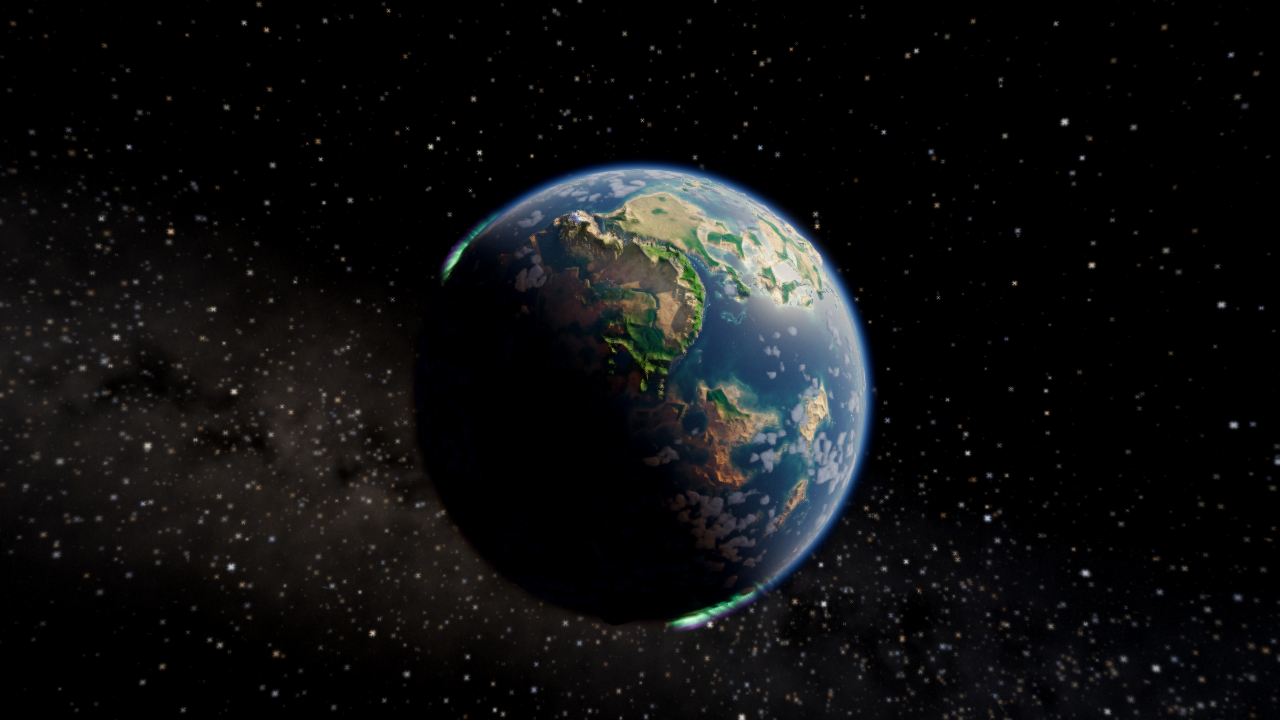
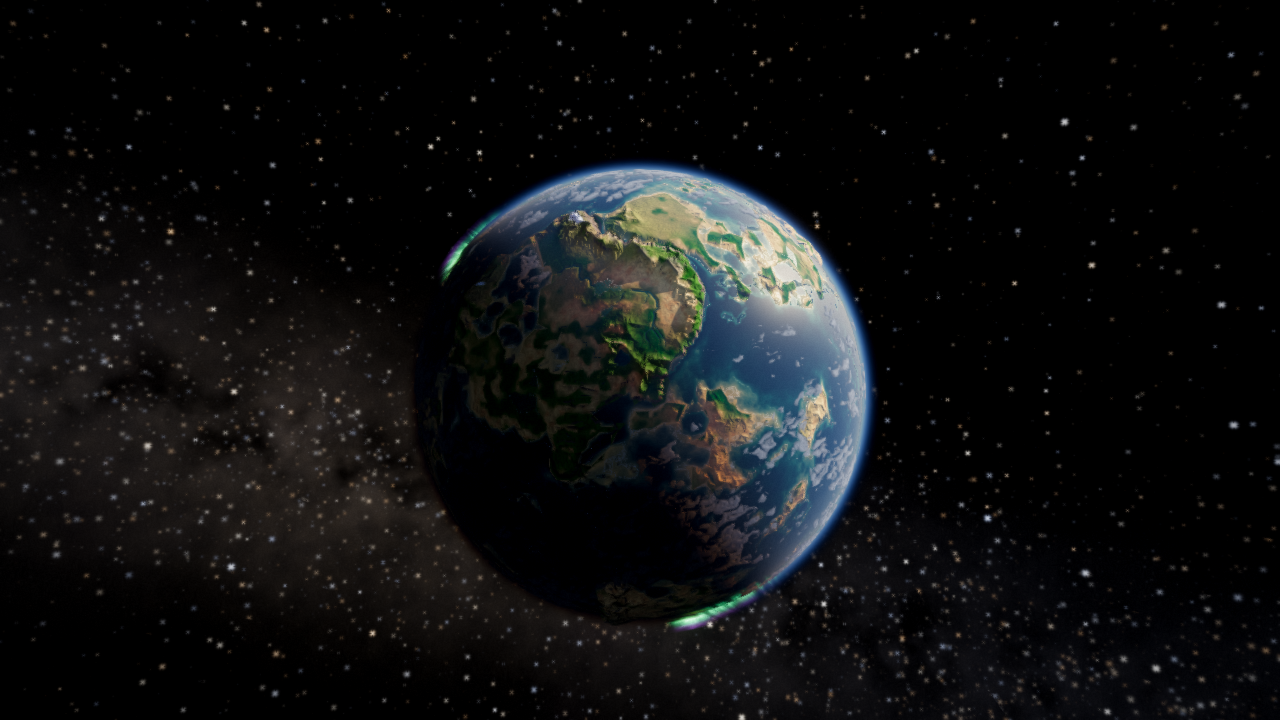
Fix instanced renderers drawing only their initial capacity; village clearings
three.js caches an instanced geometry's drawable count once, so growing
instance buffers in place kept drawing only the first 128-512 instances:
most trees, and crowds of animals and people beyond the first allocation,
never appeared. Growth now resets the geometry's GPU state.

- Vegetation: nearest-first ordering, cleared ground in settlements,
  building plots and fields; no trees in lakes
- Lakes: basins stepping down a valley are separate lakes; edge-exact
  lake quads with a shore rim (no double-blended checkerboard)
- Rainbows only for observers inside the rain; streakier whitecaps
- Mid-scale noise breaks the cloud cell lattice
- Chronicle merges recurring weather into one sentence per year
- Night viewpoint centres on settlements; volcano shot lit, plume frames
- README

Claude-Session: https://claude.ai/code/session_01P1K7jeGpkvrVy88twc6oDA

diff --git a/src/render/vegetation.ts b/src/render/vegetation.ts
@@ -18,6 +18,8 @@ import { hash4 } from '../core/rng';
 import { groundHeight } from './groundHeight';
 import type { PlanetData } from './planet/planetData';
 import { DEPTH_FS, type SharedUniforms } from './planet/terrain';
+import type { CivData } from '../worker/protocol';
+import { BType, BUILDINGS } from '../sim/civ/defs';
 
 export const VEG_TYPES = ['broadleaf', 'conifer', 'palm', 'cactus', 'bush', 'snag', 'rock', 'reeds', 'birch'] as const;
 export type VegType = (typeof VEG_TYPES)[number];
@@ -263,7 +265,16 @@ export class Vegetation {
     while (cap < n) cap *= 2;
     const arr = new Float32Array(cap * STRIDE);
     const buf = new THREE.InstancedInterleavedBuffer(arr, STRIDE, 1).setUsage(THREE.DynamicDrawUsage);
-    const geo = this.geos[i];
+    // A fresh geometry: three.js caches the drawable instance count per
+    // geometry, so growing the buffers in place would keep drawing only the
+    // old capacity.
+    const old = this.geos[i];
+    const geo = new THREE.InstancedBufferGeometry();
+    geo.index = old.index;
+    for (const name of ['position', 'normal', 'color', 'aSway']) geo.setAttribute(name, old.getAttribute(name));
+    this.meshes[i].geometry = geo;
+    old.dispose();
+    this.geos[i] = geo;
     geo.setAttribute('aDir', new THREE.InterleavedBufferAttribute(buf, 3, 0));
     geo.setAttribute('aGround', new THREE.InterleavedBufferAttribute(buf, 1, 3));
     geo.setAttribute('aXf', new THREE.InterleavedBufferAttribute(buf, 2, 4));
@@ -282,6 +293,33 @@ export class Vegetation {
   invalidate(): void {
     this.invalid = true;
   }
+
+  /** Ground cleared by people: settlement cores, building plots and fields (x,y,z unit dir, r world units). */
+  private clearings: Float32Array = new Float32Array(0);
+  private clearCount = 0;
+  private near: number[] = [];
+  private civVersion = -1;
+  setClearings(civ: CivData): void {
+    if (civ.version === this.civVersion) return;
+    this.civVersion = civ.version;
+    const n = civ.settlements.length + civ.buildings.length;
+    if (this.clearings.length < n * 4) this.clearings = new Float32Array(n * 4 + 256);
+    let k = 0;
+    const c = this.clearings;
+    for (const st of civ.settlements) {
+      if (!st.alive) continue;
+      c[k * 4] = st.x; c[k * 4 + 1] = st.y; c[k * 4 + 2] = st.z; c[k * 4 + 3] = 10 + st.radius * 0.35; k++;
+    }
+    for (const b of civ.buildings) {
+      if (b.ruin) continue;
+      const l = Math.hypot(b.x, b.y, b.z) || 1;
+      c[k * 4] = b.x / l; c[k * 4 + 1] = b.y / l; c[k * 4 + 2] = b.z / l;
+      c[k * 4 + 3] = BUILDINGS[b.type].radius * (b.type === BType.Farm ? 1.15 : 1.6) + 1.2; k++;
+    }
+    this.clearCount = k;
+    this.clearDirty = true;
+  }
+  private clearDirty = false;
 
   /** Lake surface level per hydro cell (NaN where there is no lake). */
   private lakeLevel: Float32Array | null = null;
@@ -312,16 +350,25 @@ export class Vegetation {
     this.material.uniforms.uVegFar.value = radius;
     const moved = focus.angleTo(this.lastFocus) * PLANET_RADIUS;
     const needs = force || moved > radius * 0.12 || Math.abs(radius - this.lastRadius) > this.lastRadius * 0.25 ||
-      (data.regionVersion !== this.lastVersion && now - this.lastBuild > 3000);
+      (data.regionVersion !== this.lastVersion && now - this.lastBuild > 3000) || (this.clearDirty && now - this.lastBuild > 1000);
     if (!needs || (!force && now - this.lastBuild < 250)) return;
     this.lastBuild = now;
     this.lastFocus.copy(focus);
     this.lastRadius = radius;
     this.lastVersion = data.regionVersion;
+    this.clearDirty = false;
     this.rebuild(focus, radius, data);
   }
 
   private rebuild(focus: THREE.Vector3, radius: number, data: PlanetData): void {
+    // Clearings that can matter for this rebuild.
+    this.near.length = 0;
+    const cr = this.clearings;
+    for (let k = 0; k < this.clearCount; k++) {
+      const dx = cr[k * 4] - focus.x / focus.length(), dy = cr[k * 4 + 1] - focus.y / focus.length(), dz = cr[k * 4 + 2] - focus.z / focus.length();
+      const lim = (radius + cr[k * 4 + 3]) / PLANET_RADIUS;
+      if (dx * dx + dy * dy + dz * dz < lim * lim) this.near.push(k);
+    }
     const n = data.n;
     const cellWorld = ((Math.PI / 2) * PLANET_RADIUS) / n;
     const win = Math.ceil(radius / cellWorld) + 2;
@@ -355,10 +402,9 @@ export class Vegetation {
         }
       }
     }
-    if (cands.length > this.budget) {
-      cands.sort((p, q) => p.dist - q.dist);
-      cands.length = this.budget;
-    }
+    // Nearest first, so any truncation always drops the farthest plants.
+    cands.sort((p, q) => p.dist - q.dist);
+    if (cands.length > this.budget) cands.length = this.budget;
     const counts = new Array(VEG_TYPES.length).fill(0);
     for (const c of cands) counts[c.type]++;
     counts.forEach((cnt, i) => this.ensureCapacity(i, cnt));
@@ -430,6 +476,15 @@ export class Vegetation {
     const x = d[0], y = d[1], z = d[2];
     const h = groundHeight(heights, data.n, x, y, z);
     if (h < -0.2 && type !== 7 && type !== 6) return;
+    // People clear their ground: no trees or bushes in villages, plots and fields.
+    if (type !== 6 && type !== 7) {
+      const cr = this.clearings;
+      for (const k of this.near) {
+        const dx = cr[k * 4] - x, dy = cr[k * 4 + 1] - y, dz = cr[k * 4 + 2] - z;
+        const rr = cr[k * 4 + 3] / PLANET_RADIUS;
+        if (dx * dx + dy * dy + dz * dz < rr * rr) return;
+      }
+    }
     // Nothing grows under a lake; only reeds stand in its shallows.
     const lake = this.lakeAt(face, a, b);
     if (lake === lake && h < lake + 0.4 && !(type === 7 && h > lake - 0.6)) return;

diff --git a/src/render/water.ts b/src/render/water.ts
@@ -131,36 +131,60 @@ export class WaterBodies {
   rebuild(world: StaticWorldData, data: PlanetData): void {
     if (this.lakeMesh) { this.group.remove(this.lakeMesh); this.lakeMesh.geometry.dispose(); }
     if (this.riverMesh) { this.group.remove(this.riverMesh); this.riverMesh.geometry.dispose(); }
-    this.lakeMesh = this.buildLakes(world);
+    this.lakeMesh = this.buildLakes(world, data);
     this.riverMesh = this.buildRivers(world, data);
     if (this.lakeMesh) this.group.add(this.lakeMesh);
     if (this.riverMesh) this.group.add(this.riverMesh);
   }
 
-  private buildLakes(world: StaticWorldData): THREE.Mesh | null {
+  private buildLakes(world: StaticWorldData, data: PlanetData): THREE.Mesh | null {
     const { cells, levels } = world.lakes;
     if (cells.length === 0) return null;
     const n = world.hydroN;
     const fs = n * n;
-    const pos = new Float32Array(cells.length * 4 * 3);
-    const lvl = new Float32Array(cells.length * 4);
-    const idx: number[] = [];
-    const d = [0, 0, 0];
-    const half = (1 / n) * 1.45;
+    // Edge-exact quads (no overlap, so no double blending) plus a rim of one
+    // cell around each lake at its level: hidden under higher ground, it
+    // fills the gaps where the shore dips between coarse cells.
+    const level = new Map<number, number>();
+    for (let k = 0; k < cells.length; k++) level.set(cells[k], levels[k]);
+    const rim = new Map<number, number>();
+    const dr = [0, 0, 0];
     for (let k = 0; k < cells.length; k++) {
       const c = cells[k];
+      const f = Math.floor(c / fs), rem = c - f * fs;
+      const j = Math.floor(rem / n), i = rem - j * n;
+      for (let dj = -1; dj <= 1; dj++) for (let di = -1; di <= 1; di++) {
+        const ii = i + di, jj = j + dj;
+        if (ii < 0 || jj < 0 || ii >= n || jj >= n) continue;
+        const nb = f * fs + jj * n + ii;
+        if (level.has(nb)) continue;
+        // Only shore that is about as high as the water: never a plate
+        // floating over lower ground (e.g. the next basin down a valley).
+        faceABToDir(f, -1 + (2 * ii + 1) / n, -1 + (2 * jj + 1) / n, dr, 0);
+        if (data.heightAt(dr[0], dr[1], dr[2]) < levels[k] - 0.4) continue;
+        rim.set(nb, Math.max(rim.get(nb) ?? -Infinity, levels[k]));
+      }
+    }
+    const all: [number, number][] = [...level.entries(), ...rim.entries()];
+    const pos = new Float32Array(all.length * 4 * 3);
+    const lvl = new Float32Array(all.length * 4);
+    const idx: number[] = [];
+    const d = [0, 0, 0];
+    const half = 1 / n;
+    const corners = [[-1, -1], [1, -1], [-1, 1], [1, 1]];
+    for (let k = 0; k < all.length; k++) {
+      const [c, lv] = all[k];
       const f = Math.floor(c / fs);
       const rem = c - f * fs;
       const j = Math.floor(rem / n), i = rem - j * n;
       const ca = -1 + (2 * i + 1) / n, cb = -1 + (2 * j + 1) / n;
-      const corners = [[-1, -1], [1, -1], [-1, 1], [1, 1]];
-      const r = PLANET_RADIUS + levels[k];
+      const r = PLANET_RADIUS + lv;
       for (let q = 0; q < 4; q++) {
         faceABToDir(f, ca + corners[q][0] * half, cb + corners[q][1] * half, d, 0);
         pos[(k * 4 + q) * 3] = d[0] * r;
         pos[(k * 4 + q) * 3 + 1] = d[1] * r;
         pos[(k * 4 + q) * 3 + 2] = d[2] * r;
-        lvl[k * 4 + q] = levels[k];
+        lvl[k * 4 + q] = lv;
       }
       const b = k * 4;
       idx.push(b, b + 1, b + 3, b, b + 3, b + 2);

diff --git a/src/ui/panels.ts b/src/ui/panels.ts
@@ -58,6 +58,43 @@ export class Modal {
 }
 
 // ------------------------------------------------------------------ chronicle
+/** Weather that recurs across many lands in one year reads as one sentence. */
+const MERGE: Record<string, (places: string) => string> = {
+  drought: (p) => `Drought grips ${p}.`,
+  'drought-end': (p) => `The droughts over ${p} break.`,
+  wildfire: (p) => `Wildfires sweep across ${p}.`,
+  blizzard: () => 'Blizzards howl across the high latitudes.',
+};
+
+function placeList(names: string[]): string {
+  const u = [...new Set(names.filter(Boolean))];
+  if (u.length === 0) return 'many lands';
+  if (u.length === 1) return u[0];
+  if (u.length <= 4) return `${u.slice(0, -1).join(', ')} and ${u[u.length - 1]}`;
+  return `${u.slice(0, 3).join(', ')} and ${u.length - 3} other lands`;
+}
+
+function mergeYear(list: GameEvent[]): { id: number; importance: number; text: string }[] {
+  const out: { id: number; importance: number; text: string }[] = [];
+  const groups = new Map<string, GameEvent[]>();
+  for (const e of list) {
+    const mergeable = MERGE[e.kind] && !(e.kind === 'drought' && e.data.divine);
+    if (!mergeable) {
+      const n = narrate(e);
+      out.push({ id: e.id, importance: e.importance, text: n.text || n.title });
+      continue;
+    }
+    if (!groups.has(e.kind)) groups.set(e.kind, []);
+    groups.get(e.kind)!.push(e);
+  }
+  for (const [kind, g] of groups) {
+    if (g.length === 1) { const n = narrate(g[0]); out.push({ id: g[0].id, importance: g[0].importance, text: n.text || n.title }); continue; }
+    const places = g.map((e) => String(e.data.continent ?? e.data.where ?? ''));
+    out.push({ id: g[0].id, importance: Math.max(...g.map((e) => e.importance)), text: MERGE[kind](placeList(places)) });
+  }
+  return out;
+}
+
 export class ChroniclePanel extends Modal {
   events: GameEvent[] = [];
   onGoto: (e: GameEvent) => void = () => {};
@@ -97,9 +134,8 @@ export class ChroniclePanel extends Modal {
       const years = new Map<number, GameEvent[]>();
       for (const e of list) { const y = yearOfTick(e.tick); if (!years.has(y)) years.set(y, []); years.get(y)!.push(e); }
       for (const y of [...years.keys()].sort((a, b) => b - a)) {
-        const sentences = years.get(y)!.sort((a, b) => b.importance - a.importance).slice(0, 8).map((e) => {
-          const n = narrate(e);
-          return `<span class="e" data-ev="${e.id}">${esc(n.text || n.title)}</span>`;
+        const sentences = mergeYear(years.get(y)!).sort((a, b) => b.importance - a.importance).slice(0, 8).map((m) => {
+          return `<span class="e" data-ev="${m.id}">${esc(m.text)}</span>`;
         });
         html += `<p><b style="color:var(--gold)">Year ${y}.</b> ${sentences.join(' ')}</p>`;
       }

diff --git a/src/render/viewpoints.ts b/src/render/viewpoints.ts
@@ -142,7 +142,16 @@ export function computeViewpoint(r: GameRenderer, id: ViewpointId): Viewpoint {
       return { focus: f, distance: 30, heading: 0.9, tiltOffset: -0.12, localTime: 0.36 };
     }
     case 'night': {
-      const f = findBest(r, (d, h) => (h > 0 ? 1 : 0) - Math.abs(d.y) * 0.5 + relief(r, d, 0.1) * 0.01, 1500);
+      // Where the peoples live, so their lights show.
+      const sets = r.buildings.latest?.settlements.filter((st) => st.alive) ?? [];
+      const f = findBest(r, (d, h) => {
+        let lights = 0;
+        for (const st of sets) {
+          const c = d.x * st.x + d.y * st.y + d.z * st.z;
+          if (c > 0.6) lights += st.pop * Math.exp(-(1 - c) * 12);
+        }
+        return (h > 0 ? 1 : 0) - Math.abs(d.y) * 0.5 + relief(r, d, 0.1) * 0.01 + lights * 0.02;
+      }, 1500);
       return { focus: f, distance: 1700, heading: 0.3, tiltOffset: 0.25, localTime: 0.02 };
     }
     case 'aurora': {
@@ -158,7 +167,7 @@ export function computeViewpoint(r: GameRenderer, id: ViewpointId): Viewpoint {
     }
     case 'wildlife': {
       const f = r.creatures.densestSpot() ?? findBest(r, (_d, h) => (h > 2 ? 1 : 0), 400);
-      return { focus: f, distance: 34, heading: 1.8, tiltOffset: 0.0, localTime: 0.4 };
+      return { focus: f, distance: 34, heading: 1.8, tiltOffset: 0.0, localTime: 0.47 };
     }
     case 'village': {
       const civ = r.buildings.latest;
@@ -173,7 +182,7 @@ export function computeViewpoint(r: GameRenderer, id: ViewpointId): Viewpoint {
     case 'volcano': {
       // An erupting volcano (divine or otherwise), framed at dusk for the glow.
       const v = r.effects.find((e) => e.power === 'volcano');
-      if (v) return { focus: new THREE.Vector3(v.x, v.y, v.z).normalize(), distance: 150, heading: 2.6, tiltOffset: 0.02, localTime: 0.76 };
+      if (v) return { focus: new THREE.Vector3(v.x, v.y, v.z).normalize(), distance: 170, heading: 2.6, tiltOffset: 0.35, localTime: 0.68 };
       const f = findBest(r, (d, h) => (h > 2 ? 1 : 0) - Math.abs(d.y), 800);
       return { focus: f, distance: 120, heading: 0.5, tiltOffset: 0, localTime: 0.4 };
     }

diff --git a/src/render/buildings.ts b/src/render/buildings.ts
@@ -584,6 +584,9 @@ export class BuildingsRenderer {
     while (cap < n) cap *= 2;
     bt.arr = new Float32Array(cap * STRIDE);
     bt.buf = new THREE.InstancedInterleavedBuffer(bt.arr, STRIDE, 1).setUsage(THREE.DynamicDrawUsage);
+    // Growing instance buffers: dispose first so three.js forgets the cached
+    // drawable instance count (it is computed once per geometry).
+    bt.geo.dispose();
     bt.geo.setAttribute('aDir', new THREE.InterleavedBufferAttribute(bt.buf, 3, 0));
     bt.geo.setAttribute('aInst', new THREE.InterleavedBufferAttribute(bt.buf, 4, 3));
     bt.geo.setAttribute('aCol', new THREE.InterleavedBufferAttribute(bt.buf, 2, 7));
@@ -635,6 +638,7 @@ export class BuildingsRenderer {
     if (this.fieldArr.length < fields.length * 7) {
       this.fieldArr = new Float32Array(Math.max(16, fields.length * 2) * 7);
       this.fieldBuf = new THREE.InstancedInterleavedBuffer(this.fieldArr, 7, 1).setUsage(THREE.DynamicDrawUsage);
+      this.fieldGeo.dispose(); // forget the cached instance count (see ensure())
       this.fieldGeo.setAttribute('aDir', new THREE.InterleavedBufferAttribute(this.fieldBuf, 3, 0));
       this.fieldGeo.setAttribute('aInst', new THREE.InterleavedBufferAttribute(this.fieldBuf, 4, 3));
     }
@@ -653,6 +657,7 @@ export class BuildingsRenderer {
     if (this.scaffoldArr.length < scaff.length * 7 || this.scaffoldArr.length === 0) {
       this.scaffoldArr = new Float32Array(Math.max(16, scaff.length * 2) * 7);
       const buf = new THREE.InstancedInterleavedBuffer(this.scaffoldArr, 7, 1).setUsage(THREE.DynamicDrawUsage);
+      this.scaffoldGeo.dispose(); // forget the cached instance count (see ensure())
       this.scaffoldGeo.setAttribute('aDir', new THREE.InterleavedBufferAttribute(buf, 3, 0));
       this.scaffoldGeo.setAttribute('aInst', new THREE.InterleavedBufferAttribute(buf, 4, 3));
     }

diff --git a/src/render/planet/terrain.ts b/src/render/planet/terrain.ts
@@ -327,8 +327,10 @@ vec4 shadeWater(vec3 wp, vec3 dir, float depth, float dist, float lakeMode) {
   // Whitecaps: streaky, only under strong storm winds.
   float windy = smoothstep(0.55, 0.9, storm);
   if (windy > 0.0) {
-    float caps = smoothstep(0.72, 0.95, snoise(vec3(wp.x * 0.12, wp.y * 0.5, wp.z * 0.12) + uTime * 0.3));
-    foam = max(foam, caps * windy * 0.6 * (1.0 - smoothstep(150.0, 800.0, dist)));
+    // Wind-torn foam: thin broken streaks, not blobs.
+    float caps = smoothstep(0.78, 0.97, snoise(vec3(wp.x * 0.22, wp.y * 0.9, wp.z * 0.22) + uTime * 0.3));
+    caps *= smoothstep(0.1, 0.8, snoise(wp * 1.3 + uTime * 0.5) * 0.5 + 0.5);
+    foam = max(foam, caps * windy * 0.4 * (1.0 - smoothstep(150.0, 800.0, dist)));
   }
   vec3 foamCol = vec3(0.9, 0.95, 1.0) * (sunCol * max(mu, 0.0) * 0.3 + skyAmbient(dir, dir, L) * uSunIntensity * 0.06);
   vec3 col = bodyLit * alpha + refl * fres + spec;

diff --git a/src/render/glsl/surface.ts b/src/render/glsl/surface.ts
@@ -68,7 +68,9 @@ float cloudDensity(vec3 p, float lod) {
   vec3 warp = vec3(a0 - 0.5, a1 - 0.5, a2 - a0) * (0.7 + swirl * 0.8);
   vec3 q = vec3(p.x, p.y * 1.7, p.z) * 0.0044 + warp + uCloudWind * uTime;
   vec4 n = texture(uCloudNoise, q);
-  float base = n.r * 0.65 + n.g * 0.35;
+  // A mid-scale field breaks the periodic cell lattice under heavy cover.
+  float mid = texture(uCloudNoise, q * 0.27 + vec3(0.13, 0.57, 0.31)).a;
+  float base = (n.r * 0.65 + n.g * 0.35) * (0.62 + 0.7 * mid);
   // Height profile: flat-ish bases, rounded tops; storms tower.
   float prof = smoothstep(0.0, 0.12, hf) * (1.0 - smoothstep(mix(0.45, 1.0, cov), 1.0, hf));
   float d = remap(base * prof, 1.0 - cov * 0.92, 1.0, 0.0, 1.0);

diff --git a/src/render/people.ts b/src/render/people.ts
@@ -252,6 +252,9 @@ export class PeopleRenderer {
     this.arr = arr;
     this.cap = cap;
     this.buf = new THREE.InstancedInterleavedBuffer(arr, STRIDE, 1).setUsage(THREE.DynamicDrawUsage);
+    // Growing instance buffers: dispose first so three.js forgets the cached
+    // drawable instance count (it is computed once per geometry).
+    this.geo.dispose();
     this.geo.setAttribute('aDir', new THREE.InterleavedBufferAttribute(this.buf, 3, 0));
     this.geo.setAttribute('aMotion', new THREE.InterleavedBufferAttribute(this.buf, 4, 3));
     this.geo.setAttribute('aLook', new THREE.InterleavedBufferAttribute(this.buf, 4, 7));

diff --git a/src/render/atmosphere.ts b/src/render/atmosphere.ts
@@ -303,8 +303,10 @@ void main() {
       result = inscatter * uSunIntensity + behind;
     }
   }
-  if (uRainbow > 0.001 && rd.y * 0.0 + dot(rd, uSunDir) < 0.0) {
-    float reach = sky ? 1.0 : clamp(sceneDist / 180.0, 0.0, 1.0);
+  // Rainbows belong to observers inside the rain, never to the view from orbit.
+  float rbAlt = 1.0 - smoothstep(160.0, 320.0, length(uCamPos) - PLANET_R);
+  if (uRainbow * rbAlt > 0.001 && dot(rd, uSunDir) < 0.0) {
+    float reach = (sky ? 1.0 : clamp(sceneDist / 180.0, 0.0, 1.0)) * rbAlt;
     result += rainbow(rd) * uRainbow * reach * uSunIntensity * 0.035;
   }
   outColor = vec4(result, 1.0);

diff --git a/src/render/creatures.ts b/src/render/creatures.ts
@@ -346,6 +346,9 @@ export class Creatures {
 
   private allocate(plan: string, cap: number): void {
     const geo = this.geos.get(plan)!;
+    // Growing instance buffers: dispose first so three.js forgets the cached
+    // drawable instance count (it is computed once per geometry).
+    geo.dispose();
     const arr = new Float32Array(cap * STRIDE);
     const buf = new THREE.InstancedInterleavedBuffer(arr, STRIDE, 1).setUsage(THREE.DynamicDrawUsage);
     geo.setAttribute('aDir', new THREE.InterleavedBufferAttribute(buf, 3, 0));

diff --git a/src/sim/planet/hydrology.ts b/src/sim/planet/hydrology.ts
@@ -210,6 +210,9 @@ export class Hydrology {
           const nb = g.neighbors[cur * 8 + k];
           if (this.lakeId[nb] !== -1 || this.h[nb] < 0) continue;
           if (this.filled[nb] - this.h[nb] < 0.05) continue;
+          // A chain of basins stepping down a valley is several lakes, each
+          // at its own spill level — not one sheet at the highest level.
+          if (Math.abs(this.filled[nb] - this.filled[cur]) > 0.02) continue;
           this.lakeId[nb] = id;
           stack.push(nb);
         }

diff --git a/src/main.ts b/src/main.ts
@@ -156,6 +156,7 @@ sim.onPeople = (snap) => (renderer.ready ? renderer.people.pushSnapshot(snap) : 
 sim.onCiv = (civ) => {
   if (!renderer.ready) return;
   renderer.buildings.sync(civ, renderer.data);
+  renderer.vegetation.setClearings(civ);
   renderer.setTribes(civ.tribes);
   game.onCiv(civ);
 };
